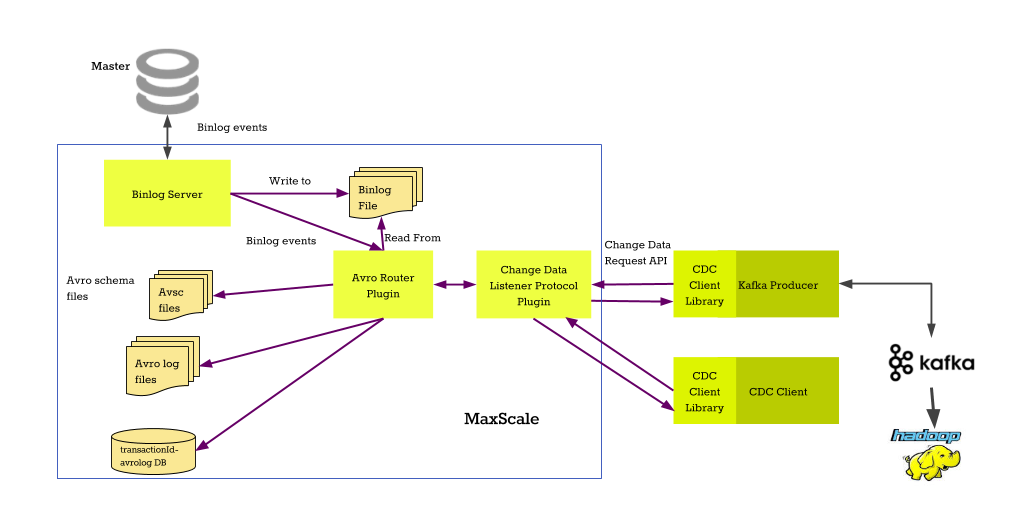
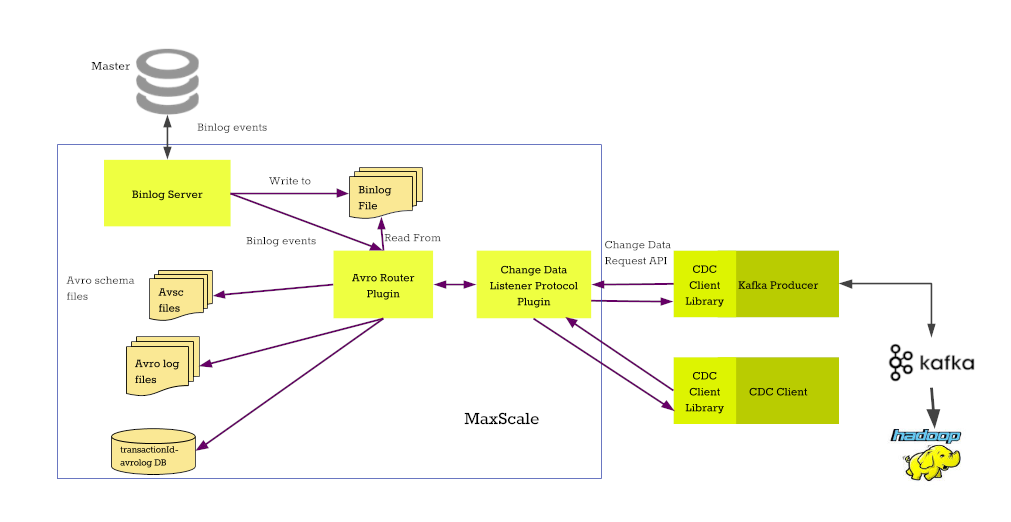
DOCS-5742 - Darkmode images for maxscale space

diff --git a/maxscale/maxscale-archive/archive/mariadb-maxscale-23.08/mariadb-maxscale-23-08-routers/mariadb-maxscale-2308-avrorouter.md b/maxscale/maxscale-archive/archive/mariadb-maxscale-23.08/mariadb-maxscale-23-08-routers/mariadb-maxscale-2308-avrorouter.md
@@ -14,7 +14,7 @@ These records can then consumed by the avrorouter directly from the binlog cache
 of the Binlog Server. This allows MariaDB MaxScale to automatically transform\
 binlog events on the primary to local Avro format files.
 
-![](../../../../.gitbook/assets/mariadb-corporation/MaxScale/23.08.10/Documentation/Routers/images/Binlog-Avro.png.png)
+![](../../../../.gitbook/assets/Binlog-Avro.png.png)
 
 The avrorouter can also consume binary logs straight from the primary. This will\
 remove the need to configure the Binlog Server but it will increase the disk space\

diff --git a/maxscale/maxscale-archive/archive/mariadb-maxscale-22.08/mariadb-maxscale-2208-routers/mariadb-maxscale-2208-avrorouter.md b/maxscale/maxscale-archive/archive/mariadb-maxscale-22.08/mariadb-maxscale-2208-routers/mariadb-maxscale-2208-avrorouter.md
@@ -14,7 +14,7 @@ These records can then consumed by the avrorouter directly from the binlog cache
 of the Binlog Server. This allows MariaDB MaxScale to automatically transform\
 binlog events on the master to local Avro format files.
 
-![](../../../../.gitbook/assets/mariadb-corporation/MaxScale/22.08.17/Documentation/Routers/images/Binlog-Avro.png.png)
+![](../../../../.gitbook/assets/Binlog-Avro.png.png)
 
 The avrorouter can also consume binary logs straight from the master. This will\
 remove the need to configure the Binlog Server but it will increase the disk space\

diff --git a/maxscale/maxscale-archive/archive/mariadb-maxscale-23-02/mariadb-maxscale-23-02-routers/mariadb-maxscale-2302-avrorouter.md b/maxscale/maxscale-archive/archive/mariadb-maxscale-23-02/mariadb-maxscale-23-02-routers/mariadb-maxscale-2302-avrorouter.md
@@ -10,7 +10,7 @@ These records can then consumed by the avrorouter directly from the binlog cache
 of the Binlog Server. This allows MariaDB MaxScale to automatically transform\
 binlog events on the primary to local Avro format files.
 
-![](<../../../../.gitbook/assets/Binlog-Avro.png (3).png>)
+![](../../../../.gitbook/assets/Binlog-Avro.png.png)
 
 The avrorouter can also consume binary logs straight from the primary. This will\
 remove the need to configure the Binlog Server but it will increase the disk space\

diff --git a/maxscale/maxscale-archive/archive/mariadb-maxscale-24-02/maxscale-24-02routers/mariadb-maxscale-2402-maxscale-2402-avrorouter.md b/maxscale/maxscale-archive/archive/mariadb-maxscale-24-02/maxscale-24-02routers/mariadb-maxscale-2402-maxscale-2402-avrorouter.md
@@ -10,7 +10,7 @@ These records can then consumed by the avrorouter directly from the binlog cache
 of the Binlog Server. This allows MariaDB MaxScale to automatically transform\
 binlog events on the primary to local Avro format files.
 
-![](<../../../../.gitbook/assets/Binlog-Avro.png (2).png>)
+![](../../../../.gitbook/assets/Binlog-Avro.png.png)
 
 The avrorouter can also consume binary logs straight from the primary. This will\
 remove the need to configure the Binlog Server but it will increase the disk space\

diff --git a/maxscale/maxscale-archive/archive/mariadb-maxscale-25-01/mariadb-maxscale-25-01-routers/mariadb-maxscale-2501-maxscale-2501-avrorouter.md b/maxscale/maxscale-archive/archive/mariadb-maxscale-25-01/mariadb-maxscale-25-01-routers/mariadb-maxscale-2501-maxscale-2501-avrorouter.md
@@ -17,7 +17,7 @@ These records can then consumed by the avrorouter directly from the binlog cache
 of the Binlog Server. This allows MariaDB MaxScale to automatically transform\
 binlog events on the primary to local Avro format files.
 
-![](<../../../../.gitbook/assets/Binlog-Avro.png (4).png>)
+![](../../../../.gitbook/assets/Binlog-Avro.png.png)
 
 The avrorouter can also consume binary logs straight from the primary. This will\
 remove the need to configure the Binlog Server but it will increase the disk space\

diff --git a/maxscale/reference/maxscale-routers/maxscale-avrorouter.md b/maxscale/reference/maxscale-routers/maxscale-avrorouter.md
@@ -15,7 +15,7 @@ These records can then consumed by the avrorouter directly from the binlog cache
 of the Binlog Server. This allows MariaDB MaxScale to automatically transform\
 binlog events on the primary to local Avro format files.
 
-![](<../../.gitbook/assets/Binlog-Avro.png (4).png>)
+![](../../.gitbook/assets/Binlog-Avro.png.png)
 
 The avrorouter can also consume binary logs straight from the primary. This will\
 remove the need to configure the Binlog Server but it will increase the disk space\

diff --git a/maxscale/mariadb-maxscale-tutorials/avrorouter-tutorial.md b/maxscale/mariadb-maxscale-tutorials/avrorouter-tutorial.md
@@ -5,7 +5,7 @@ with the binlogrouter.
 
 The first part configures the services and sets them up for the binary log to Avro file conversion. The second part of this tutorial uses the client listener interface for the avrorouter and shows how to communicate with the service over the network.
 
-![](<../.gitbook/assets/Binlog-Avro.png (4).png>)
+![](../.gitbook/assets/Binlog-Avro.png.png)
 
 ## Configuration
 

diff --git a/maxscale/maxscale-archive/archive/mariadb-maxscale-22.08/mariadb-maxscale-2208-tutorials/mariadb-maxscale-2208-avrorouter-tutorial.md b/maxscale/maxscale-archive/archive/mariadb-maxscale-22.08/mariadb-maxscale-2208-tutorials/mariadb-maxscale-2208-avrorouter-tutorial.md
@@ -12,7 +12,7 @@ file conversion. The second part of this tutorial uses the client listener\
 interface for the avrorouter and shows how to communicate with the service\
 over the network.
 
-![](../../../../.gitbook/assets/mariadb-corporation/MaxScale/22.08.17/Documentation/Routers/images/Binlog-Avro.png.png)
+![](../../../../.gitbook/assets/Binlog-Avro.png.png)
 
 ## Configuration
 

diff --git a/maxscale/maxscale-archive/archive/mariadb-maxscale-23.08/mariadb-maxscale-23-08-tutorials/mariadb-maxscale-2308-avrorouter-tutorial.md b/maxscale/maxscale-archive/archive/mariadb-maxscale-23.08/mariadb-maxscale-23-08-tutorials/mariadb-maxscale-2308-avrorouter-tutorial.md
@@ -12,7 +12,7 @@ file conversion. The second part of this tutorial uses the client listener\
 interface for the avrorouter and shows how to communicate with the service\
 over the network.
 
-![](../../../../.gitbook/assets/mariadb-corporation/MaxScale/23.08.10/Documentation/Routers/images/Binlog-Avro.png.png)
+![](../../../../.gitbook/assets/Binlog-Avro.png.png)
 
 ## Configuration
 

diff --git a/maxscale/maxscale-archive/archive/mariadb-maxscale-23-02/mariadb-maxscale-23-02-tutorials/mariadb-maxscale-2302-avrorouter-tutorial.md b/maxscale/maxscale-archive/archive/mariadb-maxscale-23-02/mariadb-maxscale-23-02-tutorials/mariadb-maxscale-2302-avrorouter-tutorial.md
@@ -8,7 +8,7 @@ file conversion. The second part of this tutorial uses the client listener\
 interface for the avrorouter and shows how to communicate with the service\
 over the network.
 
-![](<../../../../.gitbook/assets/Binlog-Avro.png (3).png>)
+![](../../../../.gitbook/assets/Binlog-Avro.png.png)
 
 ## Configuration
 

diff --git a/maxscale/maxscale-archive/archive/mariadb-maxscale-24-02/maxscale-24-02tutorials/mariadb-maxscale-2402-maxscale-2402-avrorouter-tutorial.md b/maxscale/maxscale-archive/archive/mariadb-maxscale-24-02/maxscale-24-02tutorials/mariadb-maxscale-2402-maxscale-2402-avrorouter-tutorial.md
@@ -8,7 +8,7 @@ file conversion. The second part of this tutorial uses the client listener\
 interface for the avrorouter and shows how to communicate with the service\
 over the network.
 
-![](<../../../../.gitbook/assets/Binlog-Avro.png (2).png>)
+![](../../../../.gitbook/assets/Binlog-Avro.png.png)
 
 ## Configuration
 

diff --git a/maxscale/maxscale-archive/archive/mariadb-maxscale-25-01/mariadb-maxscale-25-01-tutorials/mariadb-maxscale-2501-maxscale-2501-avrorouter-tutorial.md b/maxscale/maxscale-archive/archive/mariadb-maxscale-25-01/mariadb-maxscale-25-01-tutorials/mariadb-maxscale-2501-maxscale-2501-avrorouter-tutorial.md
@@ -8,7 +8,7 @@ file conversion. The second part of this tutorial uses the client listener\
 interface for the avrorouter and shows how to communicate with the service\
 over the network.
 
-![](<../../../../.gitbook/assets/Binlog-Avro.png (4).png>)
+![](../../../../.gitbook/assets/Binlog-Avro.png.png)
 
 ## Configuration
 
